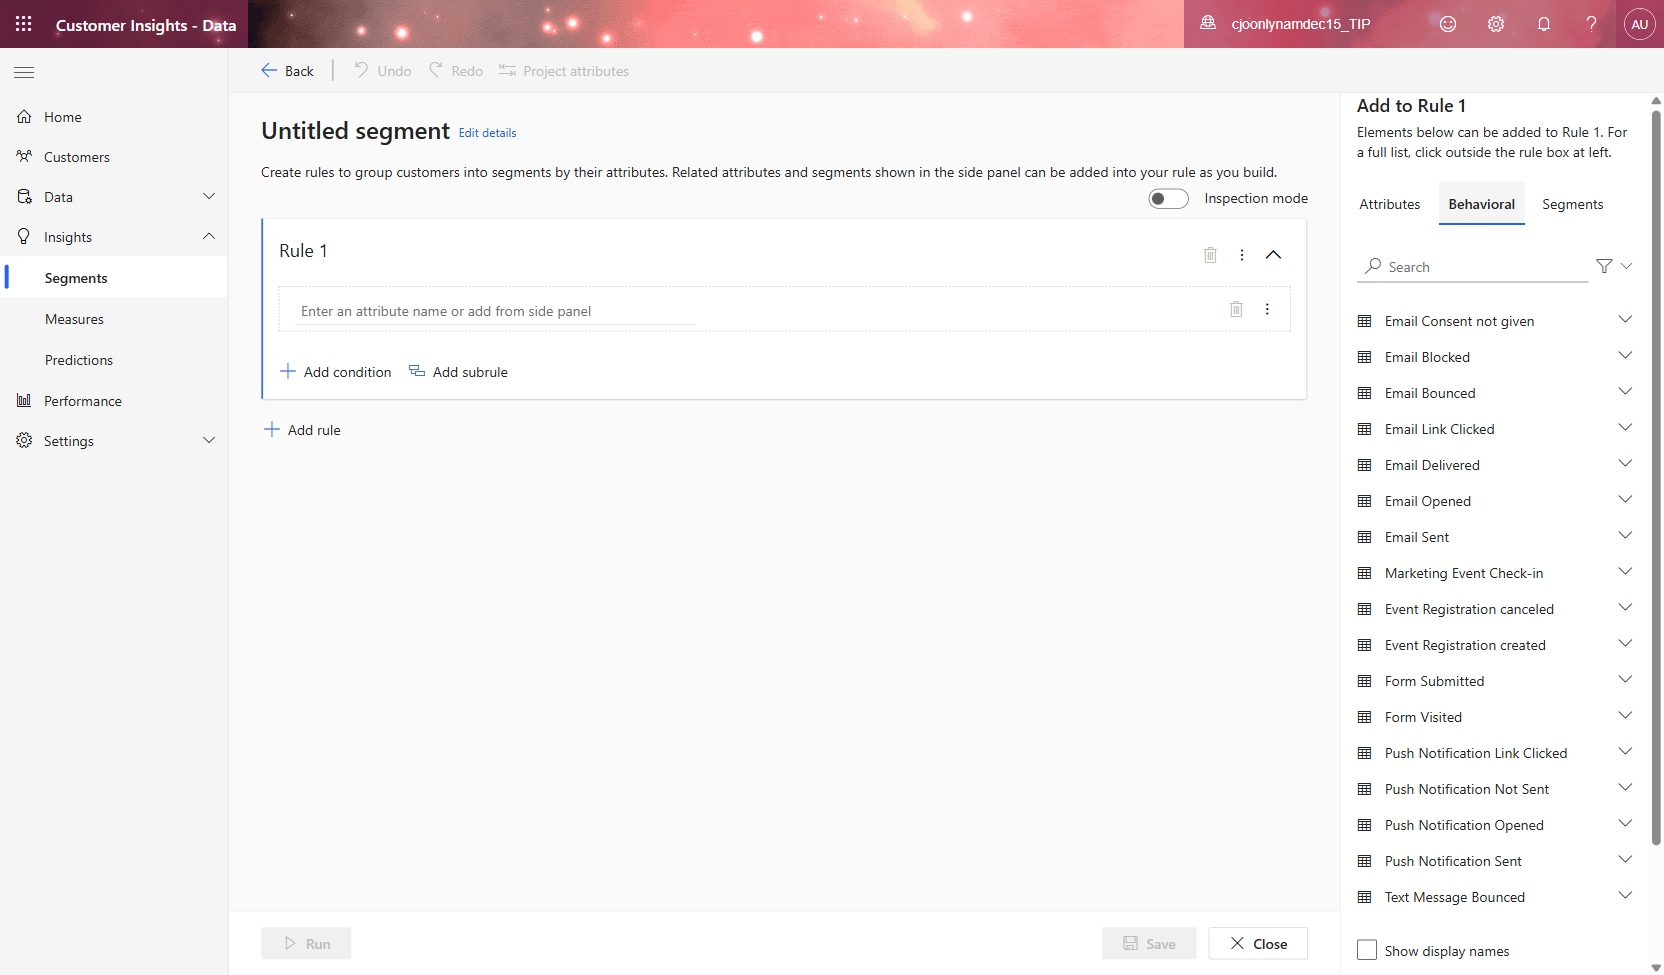
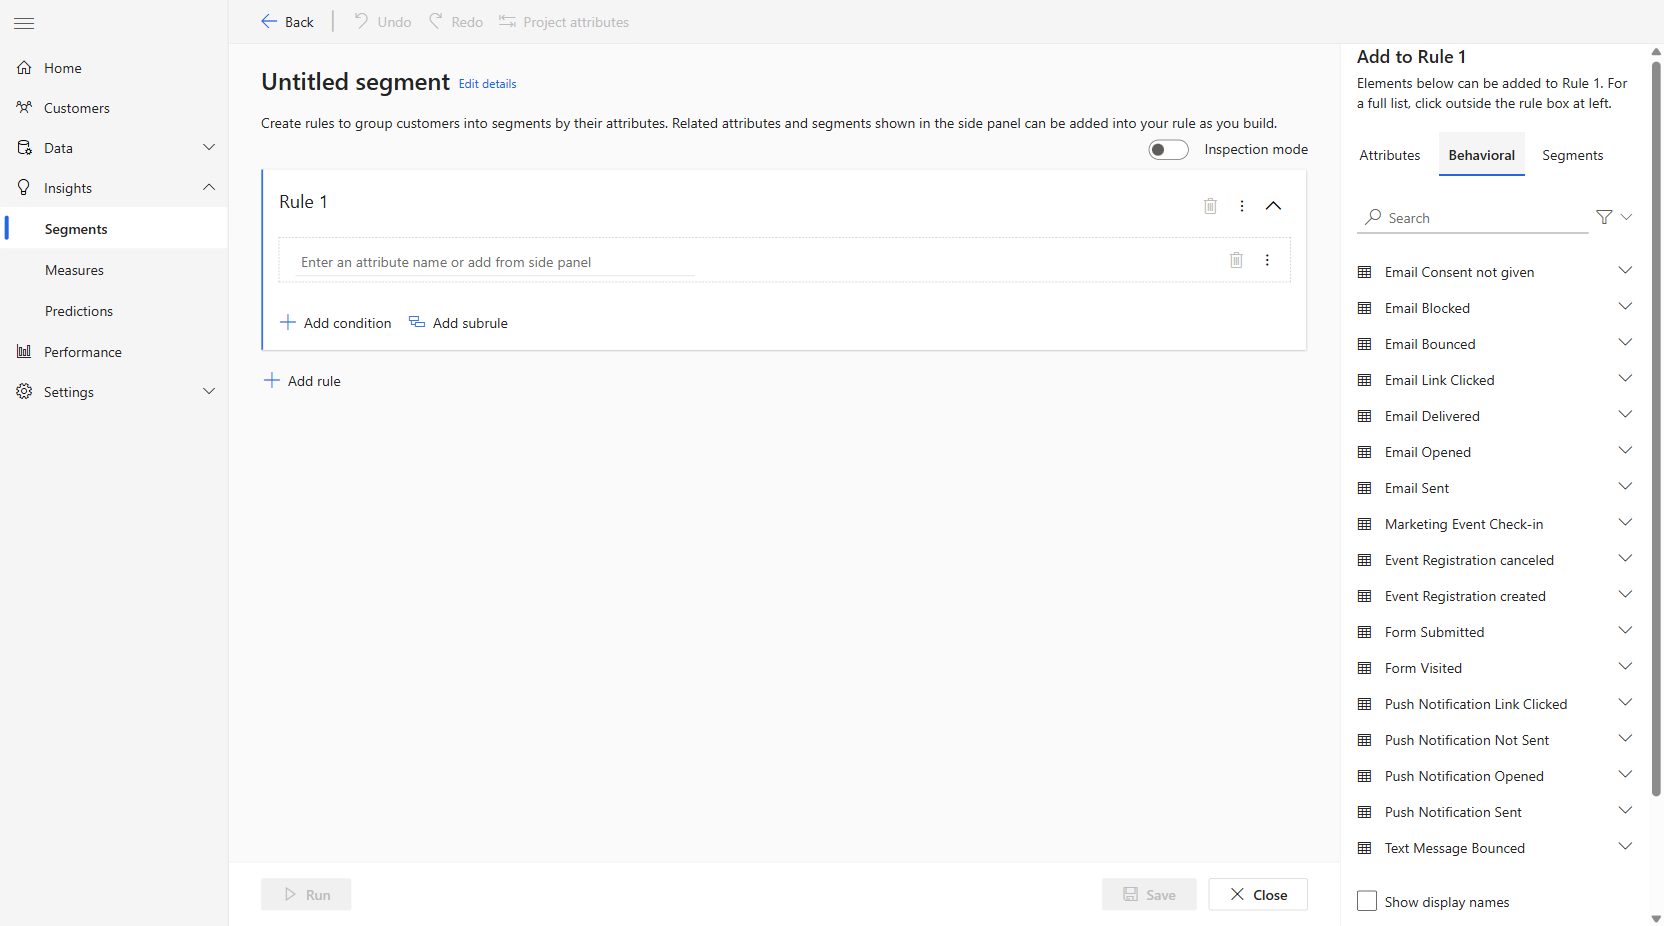
Edits

diff --git a/ci-docs/data/journeys-interaction-data-segments-measures.md b/ci-docs/data/journeys-interaction-data-segments-measures.md
@@ -1,7 +1,7 @@
 ---
 title: Use Customer Insights - Journeys interaction data in segments and measures (preview)
 description: Learn how to use Customer Insights - Journeys behavioral interaction data in Customer Insights - Data segments and measures.
-ms.date: 05/07/2026
+ms.date: 05/15/2026
 ms.topic: how-to
 author: Scott-Stabbert
 ms.author: sstabbert
@@ -100,7 +100,7 @@ To filter customers by the specific email they opened, add the **Email** field f
    The condition is added to Rule 1 on the canvas as
    `EmailOpened : CustomerInsightsJourneysInteractions.Email is equal to`.
 
-1. Use the value dropdown in the rule condition to select the specific email campaign to match.
+1. To select the specific email campaign to match, use the value dropdown in the rule condition.
 
    :::image type="content" source="media/journeys-scenario-email-choices.png" alt-text="Screenshot of the segment builder canvas showing Rule 1 with the condition 'EmailOpened: CustomerInsightsJourneysInteractions.Email is equal to', and the Email Opened interaction expanded in the side panel showing its available fields.":::
 
@@ -121,7 +121,7 @@ Use the **Behavioral** tab in the measure builder to create calculated attribute
 
 1. In the side panel, select the **Behavioral** tab.
 
-1. Select an [interaction type](#available-interaction-types) and field to use as the basis for your aggregation (for example, count of *Email Opened* events per customer).
+1. Select an [interaction type](#available-interaction-types) and field to use as the basis for your aggregation (for example, the count of *Email Opened* events per customer).
 
 1. Configure aggregation type (count, sum, average, min, max) and optional filters or time windows.
 
@@ -131,7 +131,7 @@ Use measures built on interaction data as attributes in segment conditions. This
 
 ## Limitations
 
-- **Batch only:** The system processes interaction data in batch with each system refresh. Segments and measures don't reflect interactions in real time. For real-time journey branching based on interactions, use Customer Insights - Journeys.
+- **Batch only:** The system processes interaction data in batches with each system refresh. Segments and measures don't reflect interactions in real time. For real-time journey branching based on interactions, use Customer Insights - Journeys.
 - **Profile-linked interactions only:** You can only access interactions linked to a unified Customer Profile. Interactions on contacts or leads that aren't yet unified don't appear.
 - **Not surfaced in customer timeline:** Customer Insights - Journeys interaction data is intentionally not shown on the customer profile timeline in Customer Insights - Data. Use Customer Insights - Journeys contact insights for timeline views.
 - **Ingestion time:** Depending on the volume of interaction data, the initial ingestion of interaction tables can take 30 minutes to several hours for large environments.
@@ -145,3 +145,5 @@ Use measures built on interaction data as attributes in segment conditions. This
 - [Improve targeting using interaction data in segments (Customer Insights - Journeys)](../journeys/real-time-marketing-redesigned-segment-builder.md)
 - [Access and interpret analytics (Customer Insights - Journeys)](../journeys/real-time-marketing-analytics.md)
 - [Use Customer Insights - Data profiles and segments in Customer Insights - Journeys](../journeys/real-time-marketing-ci-profile.md)
+
+[!INCLUDE [footer-include](includes/footer-banner.md)]